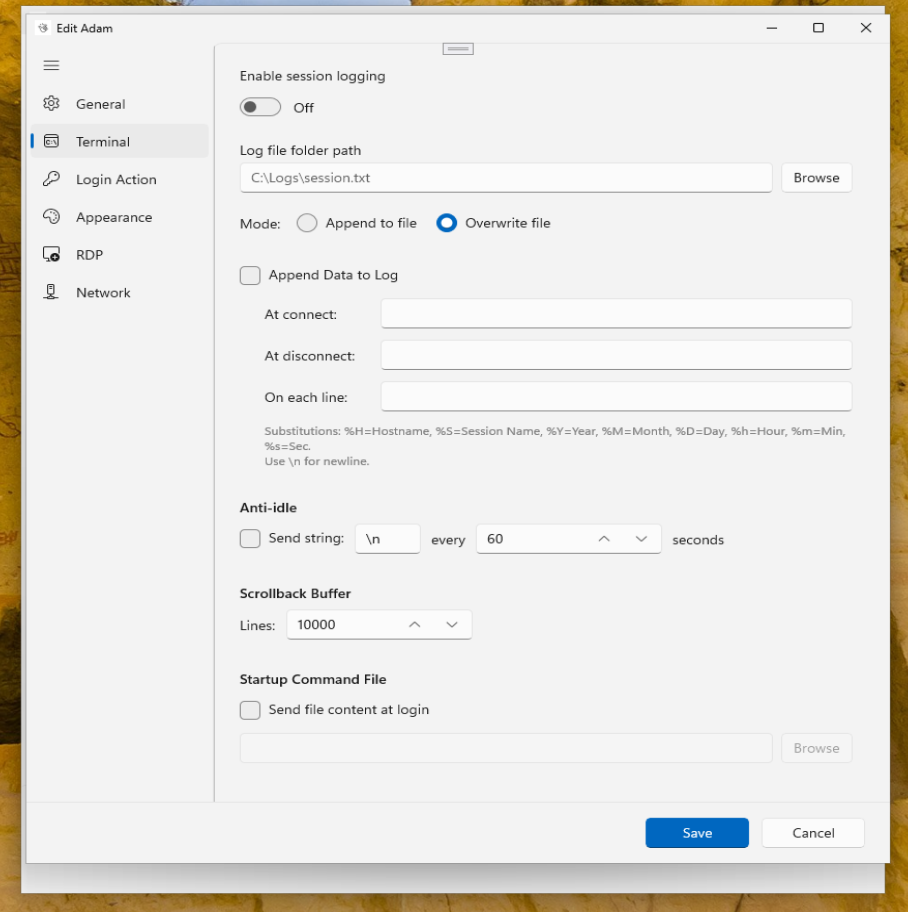
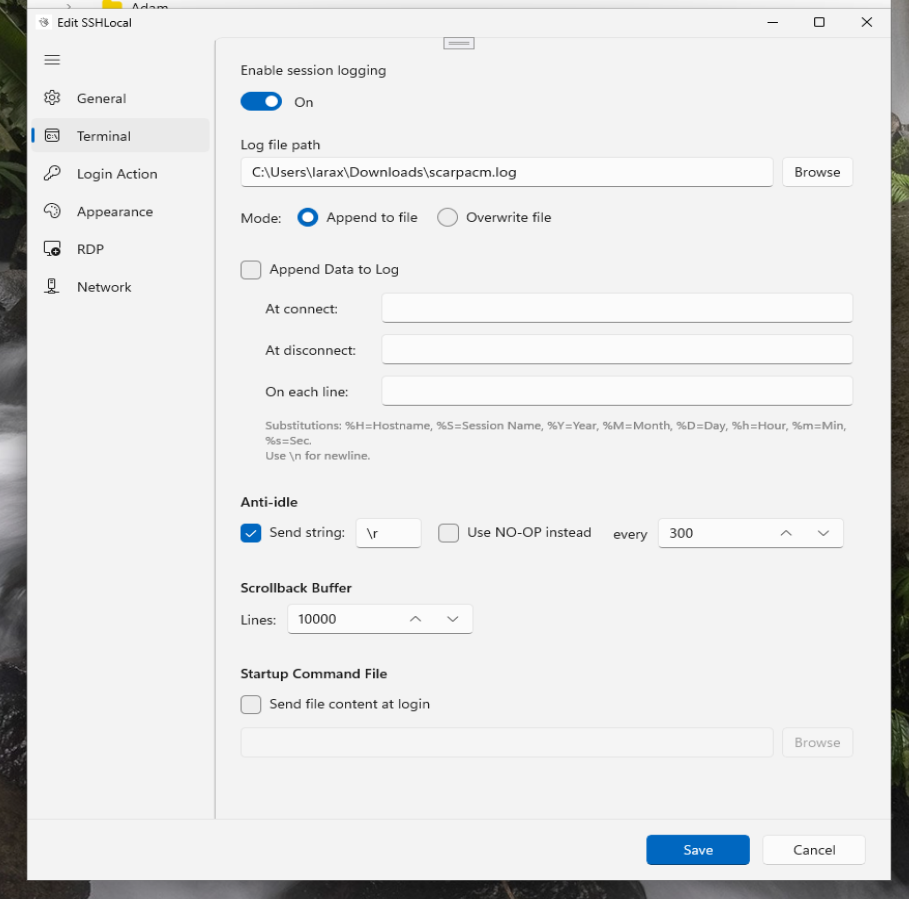
Ongoing porting to Win11 #49

diff --git a/HelpDocs/UserGuide.html b/HelpDocs/UserGuide.html
@@ -125,11 +125,13 @@
         <h2>User Guide</h2>
         <ul>
             <li><a href="#getting-started">1. Managing Sessions</a></li>
-            <li><a href="#appearance">2. Terminal Customization</a></li>
-            <li><a href="#automation">3. Automation & Login</a></li>
-            <li><a href="#networking">4. Network & Routing</a></li>
-            <li><a href="#rdp">5. Remote Desktop (RDP)</a></li>
-            <li><a href="#android-mirroring">6. Android Device Manager</a></li>
+            <li><a href="#terminal-settings">2. Terminal & Logging</a></li>
+            <li><a href="#appearance">3. Terminal Customization</a></li>
+            <li><a href="#automation">4. Automation & Login</a></li>
+            <li><a href="#networking">5. Network & Routing</a></li>
+            <li><a href="#rdp">6. Remote Desktop (RDP)</a></li>
+            <li><a href="#android-mirroring">7. Android Device Manager</a></li>
+            <li><a href="#security">8. Security Architecture</a></li>
         </ul>
     </nav>
 
@@ -159,8 +161,24 @@
             <div class="image-caption">Configuring standard SSH connection details, including Host, Port, and Authentication type.</div>
         </div>
 
-        <!-- Section 2: Appearance -->
-        <h3 id="appearance">2. Terminal Customization (Appearance)</h3>
+        <!-- Section 2: Terminal Settings -->
+        <h3 id="terminal-settings">2. Terminal & Logging</h3>
+        <p>The <strong>Terminal</strong> tab provides essential controls for session auditing, connection keep-alives, and automatic script execution.</p>
+
+        <ul class="feature-list">
+            <li><strong>Session Logging:</strong> Enable session logging to capture your terminal output to a local file[cite: 6]. You can specify a precise <code>Log file path</code> and choose whether to <strong>Append to file</strong> or <strong>Overwrite file</strong> on subsequent connections[cite: 6].</li>
+            <li><strong>Append Data to Log:</strong> Inject custom telemetry or timestamps into your logs automatically. You can define specific text patterns and variables (such as <code>%H</code> for Hostname or <code>%D</code> for Date) to be written at connect, at disconnect, or prepended to each line[cite: 6].</li>
+            <li><strong>Anti-idle (Keep-Alive):</strong> Prevent strict firewalls from dropping your session due to inactivity. You can instruct the terminal to send a standard string (like <code>\r</code>) at a set interval, or check the <strong>Use NO-OP instead</strong> box[cite: 6]. Using NO-OP sends a silent Keep-Alive packet at the SSH protocol layer, ensuring your connection stays open without injecting unwanted characters into your visual command prompt.</li>
+            <li><strong>Scrollback Buffer & Startup Scripts:</strong> Configure how many lines of terminal history are retained in memory (default is 10,000)[cite: 6]. Additionally, you can utilize the <strong>Startup Command File</strong> section to automatically send the contents of a local script file to the remote server immediately after a successful login[cite: 6].</li>
+        </ul>
+
+        <div class="image-container">
+            <img src="EditTerminalTab.png" alt="Terminal Settings Tab">
+            <div class="image-caption">Configuring session logging, NO-OP anti-idle intervals, and startup command files within the Terminal tab.</div>
+        </div>
+
+        <!-- Section 3: Appearance -->
+        <h3 id="appearance">3. Terminal Customization (Appearance)</h3>
         <p>The <strong>Appearance</strong> tab grants you complete control over the visual presentation of your SSH terminal windows. Tailoring these settings can help reduce eye strain during long sessions or allow you to color-code critical production servers to prevent accidental commands.</p>
 
         <ul class="feature-list">
@@ -175,8 +193,8 @@
             <div class="image-caption">Adjusting terminal colors, fonts, and pre-built schemes to suit your visual preferences.</div>
         </div>
 
-        <!-- Section 3: Automation -->
-        <h3 id="automation">3. Automation & Login Actions</h3>
+        <!-- Section 4: Automation -->
+        <h3 id="automation">4. Automation & Login Actions</h3>
         <p>For complex environments involving jump servers, two-factor authentication prompts, or strict administrative routers, the <strong>Login Action</strong> tab acts as a powerful macro engine. Instead of manually typing repetitive login commands, you can instruct the terminal to execute them automatically.</p>
 
         <p>The main window provides a sequence list where you can Add, Edit, Delete, or reorder (Move Up / Move Down) specific automation steps. The terminal will execute these steps sequentially from top to bottom upon successful connection.</p>
@@ -198,8 +216,8 @@
             <div class="image-caption">Configuring an Expect/Send automation rule with a defined timeout.</div>
         </div>
 
-        <!-- Section 4: Networking -->
-        <h3 id="networking">4. Network & Routing</h3>
+        <!-- Section 5: Networking -->
+        <h3 id="networking">5. Network & Routing</h3>
         <p>The <strong>Network</strong> tab handles advanced routing scenarios. If the target server is isolated behind a strict corporate firewall, you can configure <strong>Jump Hosts</strong>. A Jump Host acts as an intermediary gateway; the application will silently connect to this gateway first, using the specified Host, Port, User, and Password, and then automatically bridge the connection to your final destination.</p>
 
         <div class="image-container">
@@ -219,8 +237,8 @@
             <div class="image-caption">Creating a Local Port Forwarding tunnel mapping a source port to a remote destination.</div>
         </div>
 
-        <!-- Section 5: RDP -->
-        <h3 id="rdp">5. Remote Desktop (RDP)</h3>
+        <!-- Section 6: RDP -->
+        <h3 id="rdp">6. Remote Desktop (RDP)</h3>
         <p>Scarpa Connection Manager goes beyond command-line interfaces by offering full support for graphical Windows sessions. Under the <strong>RDP</strong> tab, you can flip the toggle switch to enable Remote Desktop capabilities for the selected session.</p>
 
         <ul class="feature-list">
@@ -234,8 +252,8 @@
             <div class="image-caption">Configuring RDP parameters including display resolution, audio, clipboard syncing, and local drive redirection.</div>
         </div>
 
-        <!-- Section 6: Android Mirroring -->
-        <h3 id="android-mirroring">6. Android Device Manager</h3>
+        <!-- Section 7: Android Mirroring -->
+        <h3 id="android-mirroring">7. Android Device Manager</h3>
         <p>The integrated Android Device Manager provides a seamless way to view, control, and interact with physical Android devices right from your desktop. The main dashboard displays a list of all devices that are currently saved, authorized, or actively connected via USB or ADB over Wi-Fi. The <strong>Manual Refresh</strong> button quickly polls the system to detect newly plugged-in hardware.</p>
 
         <div class="image-container">
@@ -261,6 +279,15 @@
             <img src="AndriodMirrorSession.png" alt="Active Android Session">
             <div class="image-caption">A live, highly responsive mirrored Android session allowing full mouse and keyboard interaction.</div>
         </div>
+
+        <!-- Section 8: Security Architecture -->
+        <h3 id="security">8. Security Architecture</h3>
+        <p>Security is a foundational pillar of the Scarpa Connection Manager, engineered specifically to ensure your infrastructure credentials and workflows remain strictly protected against memory exposure and local disk exploitation.</p>
+
+        <ul class="feature-list">
+            <li><strong>Memory and Storage Encryption:</strong> All sensitive credentials including passwords, Jump Host credentials, and SSH key passphrases are heavily encrypted. While the application is running, sensitive strings are managed exclusively using secure memory allocation mechanisms (<code>SecureString</code>). This ensures passwords remain encrypted dynamically in RAM, only decrypting for the exact millisecond they are needed for network authentication, neutralizing the threat of memory dumps.</li>
+            <li><strong>Anti-Tamper Script Verification:</strong> To protect against local exploits, any file linked to the <strong>Startup Command File</strong> functionality is cryptographically hashed when the configuration is saved. When the session starts, the application automatically verifies the current file hash against its internal secure record. If a malicious actor or malware alters the script file on your local disk outside of the application, Scarpa will detect the hash mismatch and instantly abort execution, keeping your remote servers safe from injected payloads.</li>
+        </ul>
 
     </main>
 </body>

diff --git a/MainWindow.xaml b/MainWindow.xaml
@@ -78,43 +78,49 @@
 
         <!-- Main Content Area: TreeView spans the whole window now -->
         <TreeView x:Name="Tree" Grid.Row="1" 
-                  SelectionMode="None"
-                  DoubleTapped="Tree_DoubleClick"
-                  Tapped="Tree_Tapped"
-                  RightTapped="Tree_RightTapped"
-                  PreviewKeyDown="Tree_PreviewKeyDown" 
-                  ItemInvoked="Tree_ItemInvoked"
-                  AllowDrop="True" 
-                  CanDragItems="True" 
-                  CanReorderItems="True" 
-                  DragItemsCompleted="Tree_DragItemsCompleted"
-                  Padding="8">
+           SelectionMode="None"
+           DoubleTapped="Tree_DoubleClick"
+           Tapped="Tree_Tapped"
+           RightTapped="Tree_RightTapped"
+           PreviewKeyDown="Tree_PreviewKeyDown" 
+           ItemInvoked="Tree_ItemInvoked"
+           AllowDrop="True" 
+           CanDragItems="True" 
+           CanReorderItems="True" 
+           DragItemsCompleted="Tree_DragItemsCompleted"
+           Padding="8">
             <TreeView.ItemContainerStyle>
                 <Style TargetType="TreeViewItem">
                     <Setter Property="UseSystemFocusVisuals" Value="False" />
+                    <!-- Force the outer container to be compact -->
+                    <Setter Property="MinHeight" Value="24" />
+                    <Setter Property="Margin" Value="0" />
+                    <Setter Property="Padding" Value="0,0,12,0" />
                 </Style>
             </TreeView.ItemContainerStyle>
             <TreeView.ItemTemplate>
                 <DataTemplate>
-                    <Grid Background="{Binding Content.BackgroundBrush}" CornerRadius="4" Margin="0,2">
+                    <!-- Changed Margin to "0" to remove the extra 2px gap between rows -->
+                    <Grid Background="{Binding Content.BackgroundBrush}" CornerRadius="4" Margin="0">
                         <Rectangle Width="3" Height="16" Fill="#0078D4" 
-                                   HorizontalAlignment="Left" VerticalAlignment="Center" 
-                                   RadiusX="1.5" RadiusY="1.5"
-                                   Visibility="{Binding Content.IndicatorVisibility}" />
+                            HorizontalAlignment="Left" VerticalAlignment="Center" 
+                            RadiusX="1.5" RadiusY="1.5"
+                            Visibility="{Binding Content.IndicatorVisibility}" />
 
-                        <StackPanel Orientation="Horizontal" Spacing="8" MinHeight="32" Padding="12,0,8,0">
+                        <!-- Dropped MinHeight from 32 down to 24 to match the container -->
+                        <StackPanel Orientation="Horizontal" Spacing="8" MinHeight="24" Padding="12,0,8,0">
                             <FontIcon Glyph="{Binding Content.IconGlyph}" Foreground="{Binding Content.IconColor}" VerticalAlignment="Center"/>
 
                             <TextBlock Text="{Binding Content.Name}" 
-                                       Visibility="{Binding Content.ReadVisibility}" 
-                                       VerticalAlignment="Center"/>
+                                Visibility="{Binding Content.ReadVisibility}" 
+                                VerticalAlignment="Center"/>
 
                             <TextBox Text="{Binding Content.Name, Mode=TwoWay}" 
-                                     Visibility="{Binding Content.EditVisibility}"
-                                     Loaded="RenameTextBox_Loaded"
-                                     KeyDown="RenameTextBox_KeyDown"
-                                     LostFocus="RenameTextBox_LostFocus"
-                                     MinHeight="24" Padding="4,2" VerticalAlignment="Center"/>
+                              Visibility="{Binding Content.EditVisibility}"
+                              Loaded="RenameTextBox_Loaded"
+                              KeyDown="RenameTextBox_KeyDown"
+                              LostFocus="RenameTextBox_LostFocus"
+                              MinHeight="24" Padding="4,2" VerticalAlignment="Center"/>
                         </StackPanel>
                     </Grid>
                 </DataTemplate>

diff --git a/Dialogs/ServerDialog.xaml b/Dialogs/ServerDialog.xaml
@@ -106,7 +106,7 @@
                         <StackPanel x:Name="TerminalPage" Spacing="16" Visibility="Collapsed">
                             <ToggleSwitch x:Name="EnableLoggingSwitch" Header="Enable session logging" />
 
-                            <TextBlock Text="Log file folder path" Margin="0,0,0,-12" />
+                            <TextBlock Text="Log file path" Margin="0,0,0,-12" />
                             <Grid ColumnSpacing="8">
                                 <Grid.ColumnDefinitions>
                                     <ColumnDefinition Width="*" />

diff --git a/Dialogs/ServerDialog.xaml.cs b/Dialogs/ServerDialog.xaml.cs
@@ -276,14 +276,28 @@ public sealed partial class ServerDialog : Microsoft.UI.Xaml.Window
 
     private async void BrowseLogPath_Click(object sender, RoutedEventArgs e)
     {
-        var picker = new Windows.Storage.Pickers.FolderPicker();
+        // Use a FileSavePicker so the user can define a file name AND a folder
+        var picker = new Windows.Storage.Pickers.FileSavePicker();
         var hwnd = WinRT.Interop.WindowNative.GetWindowHandle(this);
         WinRT.Interop.InitializeWithWindow.Initialize(picker, hwnd);
-        picker.SuggestedStartLocation = Windows.Storage.Pickers.PickerLocationId.DocumentsLibrary;
-        picker.FileTypeFilter.Add("*");
 
-        var folder = await picker.PickSingleFolderAsync();
-        if (folder != null) LogPathTextBox.Text = folder.Path;
+        picker.SuggestedStartLocation = Windows.Storage.Pickers.PickerLocationId.DocumentsLibrary;
+
+        // If there's already a path, suggest its file name. Otherwise, suggest a default.
+        string currentPath = LogPathTextBox.Text;
+        picker.SuggestedFileName = string.IsNullOrWhiteSpace(currentPath)
+            ? "session.log"
+            : System.IO.Path.GetFileName(currentPath);
+
+        // Allow standard text/log extensions
+        picker.FileTypeChoices.Add("Log Files", new List<string>() { ".log" });
+        picker.FileTypeChoices.Add("Text Files", new List<string>() { ".txt" });
+
+        var file = await picker.PickSaveFileAsync();
+        if (file != null)
+        {
+            LogPathTextBox.Text = file.Path;
+        }
     }
 
     private async void BrowseStartupCmd_Click(object sender, RoutedEventArgs e)

diff --git a/readme.md b/readme.md
@@ -6,11 +6,13 @@ Built on .NET 8 as a completely self-contained deployment, Scarpa requires no ex
 
 ---
 
-## Security & Data Protection
+## Security Architecture & Data Protection
 
-Security is handled entirely locally; Scarpa never transmits configuration data to external servers.
+Security is a foundational pillar of the Scarpa Connection Manager, engineered specifically to ensure your infrastructure credentials and workflows remain strictly protected against memory exposure and local disk exploitation.
 
-*   **AES-Encrypted Local Storage:** All server configurations, credentials, port forwarding rules, and automation scripts are heavily encrypted at rest. Data is stored locally in `%LocalAppData%\ScarpaConnectionManager\ssh_servers.json.enc` utilizing robust AES encryption, ensuring that even if the physical drive is compromised, your infrastructure credentials remain secure.
+*   **Memory and Storage Encryption:** All sensitive credentials—including passwords, Jump Host credentials, and SSH key passphrases—are heavily encrypted. While the application is running, sensitive strings are managed exclusively using secure memory allocation mechanisms (`SecureString`). This ensures passwords remain encrypted dynamically in RAM, only decrypting for the exact millisecond they are needed for network authentication, neutralizing the threat of memory dumps.
+*   **AES-Encrypted Local Storage:** All server configurations, credentials, port forwarding rules, and automation scripts are encrypted at rest. Data is stored locally in `%LocalAppData%\ScarpaConnectionManager\ssh_servers.json.enc` utilizing robust AES encryption, ensuring that even if the physical drive is compromised, your infrastructure credentials remain secure.
+*   **Anti-Tamper Script Verification:** To protect against local exploits, any file linked to the **Startup Command File** functionality is cryptographically hashed when the configuration is saved. When the session starts, the application automatically verifies the current file hash against its internal secure record. If a malicious actor or malware alters the script file on your local disk outside of the application, Scarpa will detect the hash mismatch and instantly abort execution, keeping your remote servers safe from injected payloads.
 *   **Comprehensive Authentication Support:** 
     *   Standard Password & Keyboard-Interactive authentication.
     *   Native support for RSA, DSA, ECDSA, and Ed25519 private key files (`-i` identity files).
@@ -56,9 +58,9 @@ Complex infrastructure requires complex routing. Scarpa handles complex SSH tunn
 
 ## Auditing & Connection Resilience
 
-*   **Anti-Idle (Keep-Alive):** Keep long-running sessions alive behind strict corporate firewalls or aggressive NAT routers. Configure custom payload strings (e.g., a null byte or whitespace) and exact transmission intervals (in seconds) to prevent premature session termination.
+*   **Anti-Idle (Keep-Alive):** Keep long-running sessions alive behind strict corporate firewalls or aggressive NAT routers. Configure custom payload strings (e.g., a null byte or whitespace) and exact transmission intervals (in seconds) to prevent premature session termination. You can also opt to use **NO-OP** Keep-Alive packets which send a silent packet at the SSH protocol layer, ensuring your connection stays open without injecting unwanted characters into your visual command prompt.
 *   **Intelligent Logging Engine:** 
-    *   Route raw terminal stdout/stderr directly to local `.log` files.
+    *   Route raw terminal stdout/stderr directly to local `.log` or `.txt` files.
     *   Optionally strip ANSI color codes from logs for clean plaintext reading.
     *   Toggle between **Append** (maintaining history across sessions) or **Overwrite** modes.
     *   Inject custom, variable-driven strings into the log file exactly when a session connects or disconnects (Supports variables like `%H` for Host, `%Y` for Year, `%m` for minute, etc.).
@@ -75,3 +77,15 @@ Complex infrastructure requires complex routing. Scarpa handles complex SSH tunn
     *   Toggle local Drive Mapping (`drivestoredirect`).
     *   Bypass or enforce strict SSL Certificate validation.
 *   **Resolution Management:** Launch sessions in seamless Full-Screen mode, or lock them to explicit custom resolutions (e.g., `1920x1080`, `1280x720`) to fit within specific monitor zones.
+
+---
+
+## Android Device Manager
+
+The integrated Android Device Manager provides a seamless way to view, control, and interact with physical Android devices right from your desktop. 
+
+*   **Interactive Mirroring Session:** Captures your local mouse clicks, scrolls, and keyboard inputs and instantly injects them into the Android operating system, allowing you to navigate the device exactly as if it were in your hands.
+*   **Connection & Detection:** Displays a list of all devices that are currently saved, authorized, or actively connected via USB or ADB over Wi-Fi. 
+*   **Performance Optimization:** Lower the bitrate or cap the maximum resolution to provide a smoother, lower-latency stream over a wireless connection.
+*   **Display Control:** Turn off the physical screen of the phone or tablet while mirroring it, saving battery life and preventing OLED burn-in during long debugging sessions.
+*   **Audio Relay:** Route the Android device's native audio output directly to your PC speakers.
